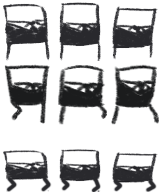
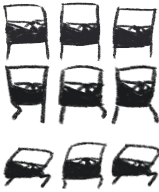
Round the edges off the animation

Changed region(s): [[0.6792, 0.75, 1.0, 1.0], [0.3522, 0.7188, 0.6792, 1.0], [0.0, 0.75, 0.3522, 1.0]]

diff --git a/js/person.js b/js/person.js
@@ -17,7 +17,7 @@ Object.seal({
 const walkSpeed = 250;
 const runSpeed = 750;
 
-function Person(x, y,, animationFile) 
+function Person(x, y, animationFile) 
 {
 	this.baseWidth = 75;
 	this.baseHeight = 150;
@@ -106,14 +106,21 @@ function Person(x, y,, animationFile)
 
 		//  Movable updating
 		var velocity = 0;
-		switch(this.movement) {
+		if(this.movement == MOVEMENT.WALKING)
+        {
+            velocity = walkSpeed;            
+        }
+        switch(this.movement)
+        {
+		case MOVEMENT.CROUCHING:
+            this.animation.setRow(2);
+            break;
 		case MOVEMENT.WALKING:
-		case MOVEMENT.SLIDING:
-			velocity = walkSpeed;			
+			this.animation.setRow(1);	
 			break;
-		case MOVEMENT.RUNNING:
-			velocity = runSpeed;
-			break;
+		default:
+            this.animation.setRow(0);   
+        break;
 		}//this could probably be simplified into an array of speeds
 		velocity *= this.facing;
 		

diff --git a/js/animation.js b/js/animation.js
@@ -1,11 +1,8 @@
-function Animation (worldX, worldY, radius) 
-{
-    this.worldX = worldX;
-    this.worldY = worldY;
-    
+function Animation (image,numberRows,numberColumns) 
+{    
     this.currentFrame = 0;
-    this.maxFrame = 0;
-    this.frameDuration = 5;
+    this.maxFrame = numberColumns;
+    this.frameDuration = 0.3;
     this.frameTimer = 0;
 
     this.currentFrameRow = 0;
@@ -23,12 +20,9 @@ function Animation (worldX, worldY, radius)
         this.currentFrameRow = row;
     };
 
-    this.render = function(ctx,cameraX,cameraY)
+    this.update = function(dt)
     {
-        var screenX = this.worldX - cameraX + 400;
-        var screenY = this.worldY - cameraY + 400;
-
-        this.frameTimer+= 0.25;
+        this.frameTimer+=dt;
         if(this.frameDuration < this.frameTimer){
             this.frameTimer -= this.frameDuration;
             this.currentFrame++;

diff --git a/js/enemy.js b/js/enemy.js
@@ -112,10 +112,12 @@ function Enemy(x,y) {
 		this.movable.pos.x = Math.max(-15, Math.min(1120, this.movable.pos.x));
 		this.collider.update(this.movable.pos);
 		
-		//  Animation updating
-		this.animation.worldX = this.movable.pos.x;
-		this.animation.worldY = this.movable.pos.y;
-
+		if (this.facing == FACING.LEFT) {
+            this.animation.reverse = true;
+        }
+        else {
+            this.animation.reverse = false;
+        }
 		this.animation.update(dt);
 	}
 	
